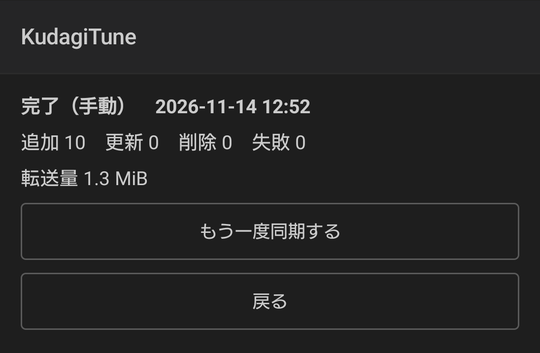
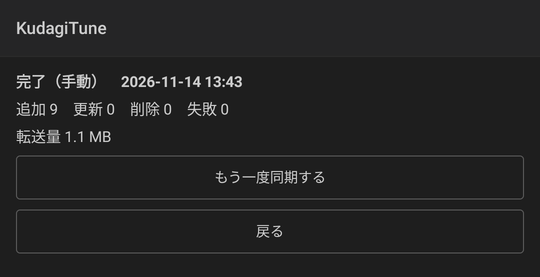
容量の単位の表記を KiB・MiB・GiB から KB・MB・GB にそろえる (#48)
MiB の表記に違和感があるため、Windows のエクスプローラーと同じ書き方にした。
1 KB = 1024 バイトで数えるのは変えない。PC の窓、端末の画面と通知、テスト、説明書の画像を直した。

Changed region(s): [[0.0296, 0.4621, 0.9778, 0.9531], [0.0296, 0.2599, 0.5926, 0.4332], [0.0296, 0.0578, 0.2667, 0.1444]]

diff --git a/android/src/test/kotlin/playlistsyncfox/android/ui/ProgressAndResultTest.kt b/android/src/test/kotlin/playlistsyncfox/android/ui/ProgressAndResultTest.kt
@@ -124,8 +124,8 @@ class TrackRowUiTest {
         // 地の色が付くのは転送中だけ。薄い文字は完了だけ
         assertEquals(listOf(false, true, false, false), listOf(done, transferring, waiting, failed).map { it.highlighted })
         assertEquals(listOf(true, false, false, false), listOf(done, transferring, waiting, failed).map { it.dimmed })
-        assertEquals("10.0 MiB", done.sizeText)
-        assertEquals("5.0 MiB / 10.0 MiB", transferring.sizeText)
+        assertEquals("10.0 MB", done.sizeText)
+        assertEquals("5.0 MB / 10.0 MB", transferring.sizeText)
         assertEquals(0.5f, transferring.fraction)
         assertNull(waiting.fraction)
         assertEquals("端末への保存に失敗しました", failed.reason)
@@ -143,20 +143,20 @@ class TrackRowUiTest {
 
 class FormatBytesTest {
     @Test
-    fun `TA-266 1 KiB 未満は B、1 KiB から KiB、1 MiB から MiB で、小数 1 桁に丸める`() {
+    fun `TA-266 1 KB 未満は B、1 KB から KB、1 MB から MB で、小数 1 桁に丸める`() {
         assertEquals("0 B", formatBytes(0))
         assertEquals("1023 B", formatBytes(1023))
-        assertEquals("1.0 KiB", formatBytes(1024))
-        assertEquals("1.0 MiB", formatBytes(1L shl 20))
-        assertEquals("1.0 GiB", formatBytes(1L shl 30))
+        assertEquals("1.0 KB", formatBytes(1024))
+        assertEquals("1.0 MB", formatBytes(1L shl 20))
+        assertEquals("1.0 GB", formatBytes(1L shl 30))
     }
 
     @Test
     fun `TA-266 小数 1 桁に丸めて 1024 になる値は、上の単位で出す`() {
-        assertEquals("1023.9 KiB", formatBytes(1048524))
-        assertEquals("1.0 MiB", formatBytes(1048525))
-        assertEquals("1.0 MiB", formatBytes((1L shl 20) - 1))
-        assertEquals("1.0 GiB", formatBytes((1L shl 30) - 1))
+        assertEquals("1023.9 KB", formatBytes(1048524))
+        assertEquals("1.0 MB", formatBytes(1048525))
+        assertEquals("1.0 MB", formatBytes((1L shl 20) - 1))
+        assertEquals("1.0 GB", formatBytes((1L shl 30) - 1))
     }
 }
 

diff --git a/desktop/src/main/kotlin/playlistsyncfox/desktop/ui/MainWindow.kt b/desktop/src/main/kotlin/playlistsyncfox/desktop/ui/MainWindow.kt
@@ -113,7 +113,8 @@ private fun lastSyncText(sync: LastSync): String {
     return "前回の同期：$startedAt　$outcome　追加 ${counts.added} 更新 ${counts.replaced} 削除 ${counts.removed}　$failures"
 }
 
-private fun mib(bytes: Long): String = String.format(Locale.ROOT, "%.1f MiB", bytes / 1_048_576.0)
+// 1 MB = 1,048,576 バイトで数え、表記は Windows のエクスプローラーに合わせて MB にする
+private fun megabytes(bytes: Long): String = String.format(Locale.ROOT, "%.1f MB", bytes / 1_048_576.0)
 
 private fun percent(done: Long, total: Long): Int = if (total <= 0) 0 else (done * 100 / total).toInt().coerceIn(0, 100)
 
@@ -338,7 +339,7 @@ private fun OverallProgress(progress: ProgressReport) {
         Bar(progress.doneBytes, progress.totalBytes, 8.dp)
         Row(horizontalArrangement = Arrangement.spacedBy(24.dp)) {
             Text("${progress.doneTracks} / ${progress.totalTracks} 曲", fontSize = 12.sp, color = colors.muted, fontFamily = FontFamily.Monospace)
-            Text("${mib(progress.doneBytes)} / ${mib(progress.totalBytes)}", fontSize = 12.sp, color = colors.muted, fontFamily = FontFamily.Monospace)
+            Text("${megabytes(progress.doneBytes)} / ${megabytes(progress.totalBytes)}", fontSize = 12.sp, color = colors.muted, fontFamily = FontFamily.Monospace)
         }
     }
 }
@@ -351,7 +352,7 @@ private fun SendingProgress(sending: SendingTrack) {
             Text("${percent(sending.sentBytes, sending.size)}%", fontFamily = FontFamily.Monospace)
         }
         Bar(sending.sentBytes, sending.size, 4.dp)
-        Text("${mib(sending.sentBytes)} / ${mib(sending.size)}", fontSize = 12.sp, color = MaterialTheme.appColors.muted, fontFamily = FontFamily.Monospace)
+        Text("${megabytes(sending.sentBytes)} / ${megabytes(sending.size)}", fontSize = 12.sp, color = MaterialTheme.appColors.muted, fontFamily = FontFamily.Monospace)
     }
 }
 

diff --git a/android/src/main/kotlin/playlistsyncfox/android/notify/SyncNotifications.kt b/android/src/main/kotlin/playlistsyncfox/android/notify/SyncNotifications.kt
@@ -69,7 +69,7 @@ object SyncNotifications {
             append("追加 ${run.added}、更新 ${run.replaced}、削除 ${run.removed}、失敗 ${run.failed}")
             // E7 は続きを次の同期で行う
             if (run.errorKind == ERROR_TIME_LIMIT) append("。残りは次の同期で続けます")
-            progress.shortageBytes?.let { append("。あと ${it / BYTES_PER_MIB} MiB の空きが必要です。タップするとストレージの設定を開きます") }
+            progress.shortageBytes?.let { append("。あと ${it / BYTES_PER_MB} MB の空きが必要です。タップするとストレージの設定を開きます") }
             // 自動が「消す」を飛ばしたときは、確認が要る旨を足す（J9）
             if (trigger == SyncTrigger.Auto && removalSkipped(run)) append("。削除の確認が必要な曲があります")
         }
@@ -116,8 +116,8 @@ object SyncNotifications {
 
     private const val PROGRESS_SCALE = 1000
 
-    /** 1 MiB のバイト数（2 の 20 乗）。不足の容量を通知の文面の MiB 単位に直す。 */
-    private const val BYTES_PER_MIB = 1024L * 1024
+    /** 1 MB のバイト数（2 の 20 乗。表記は Windows に合わせて MB）。不足の容量を通知の文面の MB 単位に直す。 */
+    private const val BYTES_PER_MB = 1024L * 1024
 
     /** `error_kind` の E7（時間上限。前面サービスの上限に当たった）。残りは次の同期で続ける（B2 の E 表）。 */
     private const val ERROR_TIME_LIMIT = "E7"

diff --git a/android/src/main/kotlin/playlistsyncfox/android/ui/Words.kt b/android/src/main/kotlin/playlistsyncfox/android/ui/Words.kt
@@ -84,11 +84,12 @@ fun reasonWord(reason: String?): String = when (reason) {
     else -> reason
 }
 
-private val BYTE_UNITS = listOf("B", "KiB", "MiB", "GiB")
+// 1 KB = 1024 バイトで数え、表記は Windows のエクスプローラーに合わせて KB・MB・GB にする
+private val BYTE_UNITS = listOf("B", "KB", "MB", "GB")
 private const val BYTE_UNIT_STEP = 1024.0
 
 /**
- * 人が読む単位。小数 1 桁に丸めて 1024 に達するときは、上の単位で出す。例：1 MiB の 1 バイト手前は「1.0 MiB」（「1024.0 KiB」にしない）。
+ * 人が読む単位。小数 1 桁に丸めて 1024 に達するときは、上の単位で出す。例：1 MB の 1 バイト手前は「1.0 MB」（「1024.0 KB」にしない）。
  */
 fun formatBytes(bytes: Long): String {
     var value = bytes.toDouble()
